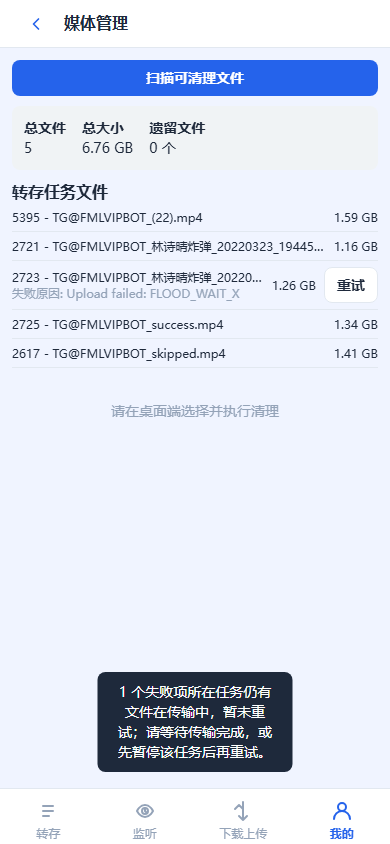
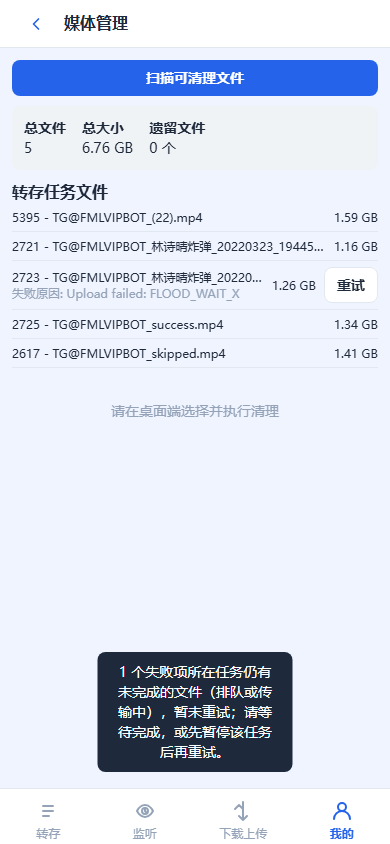
fix(webui): treat queued items and active runner as busy when retrying a task

Changed region(s): [[0.2462, 0.7701, 0.7692, 0.9242]]

diff --git a/module/adapters/webui/static/shared.js b/module/adapters/webui/static/shared.js
@@ -495,7 +495,7 @@ const i18n = {
     'media.retrying': '重试中…',
     'media.retryDone': '已重置 {count} 个失败项，正在重试（本地文件完整时不会重新下载）。',
     'media.retryNone': '没有需要重新执行的失败项（可能已直接恢复），列表已刷新。',
-    'media.retryBusy': '{count} 个失败项所在任务仍有文件在传输中，暂未重试；请等待传输完成，或先暂停该任务后再重试。',
+    'media.retryBusy': '{count} 个失败项所在任务仍有未完成的文件（排队或传输中），暂未重试；请等待完成，或先暂停该任务后再重试。',
     'media.failureReason': '失败原因',
     'media.cleanupHistory': '清理历史',
     'media.empty': '没有可清理文件',
@@ -514,7 +514,7 @@ const i18n = {
     'event.level.warning': '警告',
     'event.level.error': '错误',
     'error.auth_required': '需要登录。',
-    'error.task_busy': '任务仍有文件在传输中，请等待传输完成，或先暂停任务后再重试。',
+    'error.task_busy': '任务仍有未完成的文件（排队或传输中），请等待完成，或先暂停任务后再重试。',
     'error.setup_required': '请先完成初始化配置。',
     'error.setup_api_failed': '保存 API 凭证失败。',
     'error.setup_rclone_failed': '配置 rclone 失败。',
@@ -1026,7 +1026,7 @@ const i18n = {
     'media.retrying': 'Retrying…',
     'media.retryDone': 'Reset {count} failed item(s) for retry (complete local files are reused).',
     'media.retryNone': 'No failed items needed re-running (they may have been recovered directly); list refreshed.',
-    'media.retryBusy': '{count} failed item(s) were not retried because their task still has files in flight; wait for it to finish, or pause the task first.',
+    'media.retryBusy': '{count} failed item(s) were not retried because their task still has unfinished files (queued or transferring); wait for it to finish, or pause the task first.',
     'media.failureReason': 'Failure reason',
     'media.cleanupHistory': 'Cleanup history',
     'media.empty': 'No cleanable files',
@@ -1045,7 +1045,7 @@ const i18n = {
     'event.level.warning': 'Warning',
     'event.level.error': 'Error',
     'error.auth_required': 'Authentication required.',
-    'error.task_busy': 'The task still has files in flight; wait for it to finish, or pause the task first, then retry.',
+    'error.task_busy': 'The task still has unfinished files (queued or transferring); wait for it to finish, or pause the task first, then retry.',
     'error.setup_required': 'Please finish first-run setup.',
     'error.setup_api_failed': 'Failed to save API credentials.',
     'error.setup_rclone_failed': 'Failed to configure rclone.',

diff --git a/unit_tests/transfer_store_webui_case.py b/unit_tests/transfer_store_webui_case.py
@@ -30,6 +30,7 @@ import module as trmd_module
 from module.core.media_types import MEDIA_TYPES_DEFAULT
 from module.core.message_filter_factory import build_runtime_message_filter
 from module.live_watch_manager import LiveWatchManager
+from module.ports import TransferTaskBusyError
 from module.pikpak_integration import PikpakIntegrationManager
 from module.transfer_store import ExecutionMode, TransferStatus, TransferStore
 from module.webui_view_model import WebUiViewModel
@@ -1880,7 +1881,9 @@ class TransferStoreWebUiCase(unittest.TestCase):
             self.assertEqual([], submitted)
             self.assertEqual(TransferStatus.FAILURE, store.get_item(item_id)["status"])
 
-    def _task_with_in_flight_and_failed_item(self, store, task_status):
+    def _task_with_in_flight_and_failed_item(
+        self, store, task_status, item_status=TransferStatus.RUNNING
+    ):
         task_id = store.create_task(
             "https://t.me/source", "https://t.me/target", start_id=1, end_id=2
         )
@@ -1891,11 +1894,54 @@ class TransferStoreWebUiCase(unittest.TestCase):
             source_link="https://t.me/source/2",
             target_link="https://t.me/target",
             file_name="2.mp4",
-            phase="uploading",
-            status=TransferStatus.RUNNING,
+            phase="uploading" if item_status == TransferStatus.RUNNING else "pending",
+            status=item_status,
         )
         store.update_task(task_id, status=task_status)
         return task_id, failed_id, in_flight_id
+
+    def test_retry_failed_web_task_rejects_unfinished_pending_or_pausing_task(self):
+        cases = (
+            (TransferStatus.RUNNING, TransferStatus.PENDING),
+            (TransferStatus.PAUSING, TransferStatus.RUNNING),
+            (TransferStatus.PENDING, TransferStatus.PENDING),
+        )
+        for task_status, item_status in cases:
+            with self.subTest(task_status=task_status, item_status=item_status):
+                with tempfile.TemporaryDirectory(ignore_cleanup_errors=True) as directory:
+                    store = TransferStore(directory=directory)
+                    task_id, failed_id, _ = self._task_with_in_flight_and_failed_item(
+                        store, task_status, item_status
+                    )
+                    downloader, submitted = self._build_item_retry_downloader(store)
+
+                    with self.assertRaises(TransferTaskBusyError):
+                        downloader.retry_failed_web_task(task_id)
+
+                    self.assertEqual([], submitted)
+                    self.assertEqual(
+                        TransferStatus.FAILURE, store.get_item(failed_id)["status"]
+                    )
+
+    def test_retry_failed_web_task_rejects_task_being_processed_by_runner(self):
+        with tempfile.TemporaryDirectory(ignore_cleanup_errors=True) as directory:
+            store = TransferStore(directory=directory)
+            task_id = store.create_task(
+                "https://t.me/source", "https://t.me/target", start_id=1, end_id=1
+            )
+            failed_id = self._add_failed_media_item(store, task_id, 1)
+            store.update_task(task_id, status=TransferStatus.RUNNING)
+            downloader = build_downloader(transfer_store=store)
+            manager = attach_task_manager(downloader, store, diagnostic=SimpleNamespace())
+            submitted = []
+            manager._enqueue_and_process_web_task = lambda tid: submitted.append(tid)
+            manager._has_active_web_transfer_runner = lambda tid: tid == task_id
+
+            with self.assertRaises(TransferTaskBusyError):
+                downloader.retry_failed_web_task(task_id)
+
+            self.assertEqual([], submitted)
+            self.assertEqual(TransferStatus.FAILURE, store.get_item(failed_id)["status"])
 
     def test_retry_failed_web_items_skips_task_with_items_in_flight(self):
         with tempfile.TemporaryDirectory(ignore_cleanup_errors=True) as directory:

diff --git a/unit_tests/web_ui_assets_case.py b/unit_tests/web_ui_assets_case.py
@@ -401,10 +401,10 @@ class WebUiAssetsCase(unittest.TestCase):
             "'media.retryDone': 'Reset {count} failed item(s) for retry (complete local files are reused).'",
             "'media.retryNone': '没有需要重新执行的失败项（可能已直接恢复），列表已刷新。'",
             "'media.retryNone': 'No failed items needed re-running (they may have been recovered directly); list refreshed.'",
-            "'media.retryBusy': '{count} 个失败项所在任务仍有文件在传输中，暂未重试；请等待传输完成，或先暂停该任务后再重试。'",
-            "'media.retryBusy': '{count} failed item(s) were not retried because their task still has files in flight; wait for it to finish, or pause the task first.'",
-            "'error.task_busy': '任务仍有文件在传输中，请等待传输完成，或先暂停任务后再重试。'",
-            "'error.task_busy': 'The task still has files in flight; wait for it to finish, or pause the task first, then retry.'",
+            "'media.retryBusy': '{count} 个失败项所在任务仍有未完成的文件（排队或传输中），暂未重试；请等待完成，或先暂停该任务后再重试。'",
+            "'media.retryBusy': '{count} failed item(s) were not retried because their task still has unfinished files (queued or transferring); wait for it to finish, or pause the task first.'",
+            "'error.task_busy': '任务仍有未完成的文件（排队或传输中），请等待完成，或先暂停任务后再重试。'",
+            "'error.task_busy': 'The task still has unfinished files (queued or transferring); wait for it to finish, or pause the task first, then retry.'",
             "'media.failureReason': '失败原因'",
             "'media.failureReason': 'Failure reason'",
             "'media.confirmCleanup': '确定要删除选中的文件吗？此操作不可撤销。失败项删除后再重试需要重新下载。'",

diff --git a/module/persistence/store/items.py b/module/persistence/store/items.py
@@ -515,8 +515,8 @@ class ItemsMixin:
             and str(item.get('phase') or '') in resumable_phases
         ]
 
-    def has_in_flight_items(self, task_id: int) -> bool:
-        """任务未暂停/未终结且仍有 RUNNING 条目：此时重跑任务会与在途协程争用同一条目。"""
+    def has_unfinished_items(self, task_id: int) -> bool:
+        """任务未暂停/未终结且仍有排队或在途条目：此时重跑任务会与已派发的工作争用同一条目。"""
         with self.connect() as conn:
             row = conn.execute(
                 '''
@@ -524,12 +524,13 @@ class ItemsMixin:
                 FROM transfer_items AS i
                 JOIN transfer_tasks AS t ON t.id = i.task_id
                 WHERE i.task_id = ?
-                  AND i.status = ?
+                  AND i.status IN (?, ?)
                   AND t.status IN (?, ?, ?)
                 LIMIT 1
                 ''',
                 (
                     int(task_id),
+                    TransferStatus.PENDING,
                     TransferStatus.RUNNING,
                     TransferStatus.PENDING,
                     TransferStatus.RUNNING,

diff --git a/module/ports.py b/module/ports.py
@@ -27,10 +27,10 @@ class IWatchOps(Protocol):
 
 
 class TransferTaskBusyError(RuntimeError):
-    """任务仍有在途条目时拒绝重试：重跑任务会与在途协程争用同一条目。"""
+    """任务仍有排队/在途工作时拒绝重试：重跑任务会与已派发的工作争用同一条目。"""
 
     def __init__(self, task_id: int):
-        super().__init__(f'Transfer task {task_id} still has items in flight.')
+        super().__init__(f'Transfer task {task_id} still has unfinished items.')
         self.task_id = int(task_id)
 
 
@@ -40,7 +40,7 @@ class ITaskOps(Protocol):
     def pause_web_task(self, task_id: int) -> bool: ...
     def resume_web_task(self, task_id: int) -> bool: ...
     def retry_failed_web_task(self, task_id: int) -> int:
-        """Raises TransferTaskBusyError while the task still has items in flight."""
+        """Raises TransferTaskBusyError while the task still has unfinished items."""
         ...
     def retry_failed_web_items(self, item_ids: list[int]) -> dict: ...
     def submit_web_task(self, task_id: int) -> None: ...

diff --git a/module/adapters/webui/server.py b/module/adapters/webui/server.py
@@ -1364,14 +1364,14 @@ class WebUiServer:
             try:
                 if retry_failed_web_task:
                     reset_items = int(retry_failed_web_task(task_id))
-                elif self.store.has_in_flight_items(task_id):
+                elif self.store.has_unfinished_items(task_id):
                     raise TransferTaskBusyError(task_id)
                 else:
                     reset_items = self.store.retry_failed_items(task_id)
             except TransferTaskBusyError:
                 raise WebUiApiError(
                     "task_busy",
-                    "任务仍有文件在传输中，请等待传输完成，或先暂停任务后再重试。",
+                    "任务仍有未完成的文件（排队或传输中），请等待完成，或先暂停任务后再重试。",
                     HTTPStatus.CONFLICT,
                 ) from None
             if not retry_failed_web_task and reset_items and self.task_submitter:

diff --git a/module/webops/task_manager.py b/module/webops/task_manager.py
@@ -493,7 +493,10 @@ class WebUITaskManager:
         task = self.transfer_store.get_task(task_id)
         if not task:
             return 0
-        if self.transfer_store.has_in_flight_items(task_id):
+        if (
+            self._has_active_web_transfer_runner(task_id)
+            or self.transfer_store.has_unfinished_items(task_id)
+        ):
             raise TransferTaskBusyError(task_id)
         from module.transfer.watch_inline import is_watch_inline_task
         watch_inline = is_watch_inline_task(task)

diff --git a/CONTEXT.md b/CONTEXT.md
@@ -348,7 +348,7 @@ _Avoid_: Immediate kill, hard pause, force stop, wait for whole post/album, wait
 **Transfer Task Pause** — 已兑现的暂停态：Transfer Task 不再启动下一条 Transfer Item；未完成 Item 可保留已对齐的临时缓存以便恢复，不视为失败清理。恢复时绑定已有 Item（item_id），跳过已 success/skipped 的来源消息；压制同消息上的僵尸 active 行，避免再开一轮 fallback 下载。
 _Avoid_: Cancel task, delete task, kill transfer
 
-**Failed Item Retry** — 重试失败的 Transfer Item，成功的和跳过的保持为已完成。重试会重跑整个任务，因此任务仍有在途条目（任务为 PENDING/RUNNING/PAUSING 且存在 RUNNING 条目）时拒绝重试，避免与在途协程争用同一条目；用户可等传输完成或先暂停任务再重试。任务级入口返回 409 `task_busy`；媒体管理按条目重试跳过这类任务并在响应 `busy_items` 中计数。
+**Failed Item Retry** — 重试失败的 Transfer Item，成功的和跳过的保持为已完成。重试会重跑整个任务，因此任务仍有未完成工作（任务为 PENDING/RUNNING/PAUSING 且存在 PENDING/RUNNING 条目，或 Web 队列 runner 正在处理该任务）时拒绝重试，避免与已派发的工作争用同一条目；用户可等传输完成或先暂停任务再重试。任务级入口返回 409 `task_busy`；媒体管理按条目重试跳过这类任务并在响应 `busy_items` 中计数。
 _Avoid_: Restart task, rerun all, clear history
 
 **Manual Archive Retry** — WebUI 系统日志对 `archive_not_found` 条目提供单条手动重试：`POST /api/system-logs/{id}/retry-archive`。列表下发 `can_retry`；强制重新匹配并归档，无视自动匹配时间窗口；同目标进行中请求返回已在重试中。支持转存延迟归档（`task_id`/`item_id`）与实时监听路径（`source_folder`+`file_name`，旧日志可从消息正文解析文件名）。仍找不到则同步返回失败，不另起自动调度。

diff --git a/CONTEXT-MAP.md b/CONTEXT-MAP.md
@@ -146,7 +146,7 @@
 | `/api/tasks/<id>/summary` | GET | 获取任务统计 ViewModel 与最近事件 |
 | `/api/tasks/<id>/pause` | POST | 暂停任务 |
 | `/api/tasks/<id>/resume` | POST | 恢复任务 |
-| `/api/tasks/<id>/retry-failed` | POST | 重试失败 Items；任务仍有在途条目时 409 `task_busy` |
+| `/api/tasks/<id>/retry-failed` | POST | 重试失败 Items；任务仍有未完成工作（排队/在途条目或正被处理）时 409 `task_busy` |
 | `/api/watches` | GET/POST | 列出/创建监听规则 |
 | `/api/watches/<id>` | DELETE/PATCH | 删除/更新监听 |
 | `/api/watches/<id>/events` | GET | 监听转发记录；`limit`/`offset`/`today`/`tz_offset`/`status=success\|skipped\|failure`；响应含 `status_counts` |
@@ -155,7 +155,7 @@
 | `/api/transfer/detect-range` | POST | 检测频道消息范围 |
 | `/api/media/scan` | GET | 扫描可清理文件 |
 | `/api/media/cleanup` | POST | 执行文件清理 |
-| `/api/media/retry` | POST | 按 `item_ids` 重试失败 Items；响应 `retried_items`/`task_ids`/`busy_items`（所在任务仍有在途条目而未重试的数量） |
+| `/api/media/retry` | POST | 按 `item_ids` 重试失败 Items；响应 `retried_items`/`task_ids`/`busy_items`（所在任务仍有未完成工作而未重试的数量） |
 | `/api/auth/status` | GET | WebUI Telegram Login 步进状态 |
 | `/api/auth/submit` | POST | 提交手机号/验证码/2FA |
 | `/api/setup/status` | GET | First-run Setup Wizard 状态（含 Setup Ready） |
